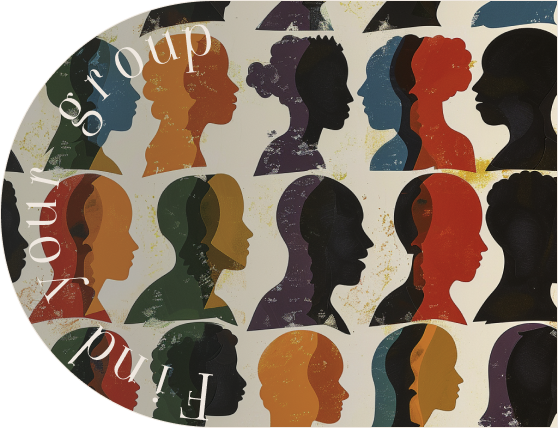
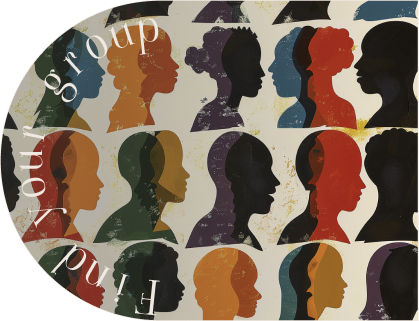
do small img index page

diff --git a/src/blocks/feedback-group/feedback-group.sass b/src/blocks/feedback-group/feedback-group.sass
@@ -30,6 +30,10 @@
   &__img
     @include tablet
       margin: 0 auto
+      width: 100%
+      max-width: 400px
+    img
+      width: 100%
 
 
   &__subtitle
